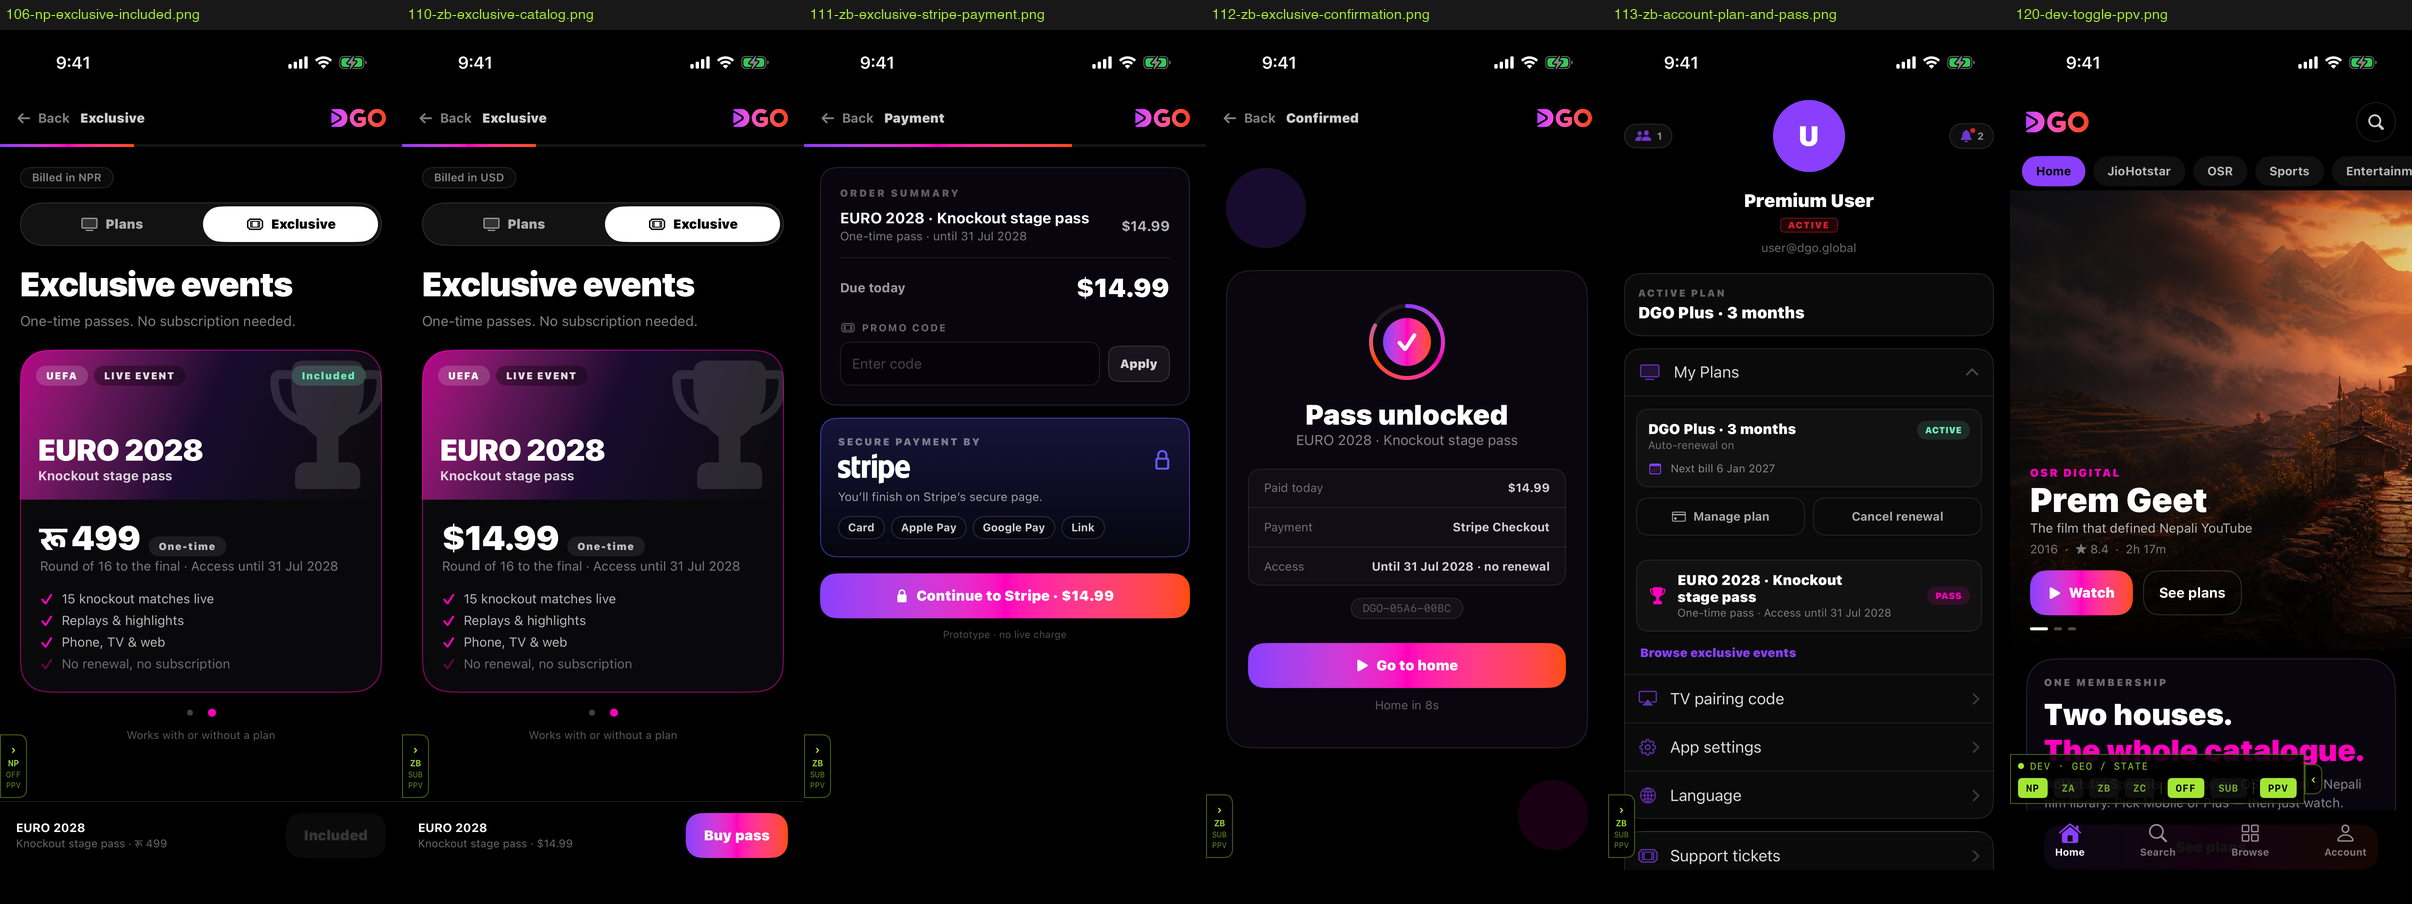
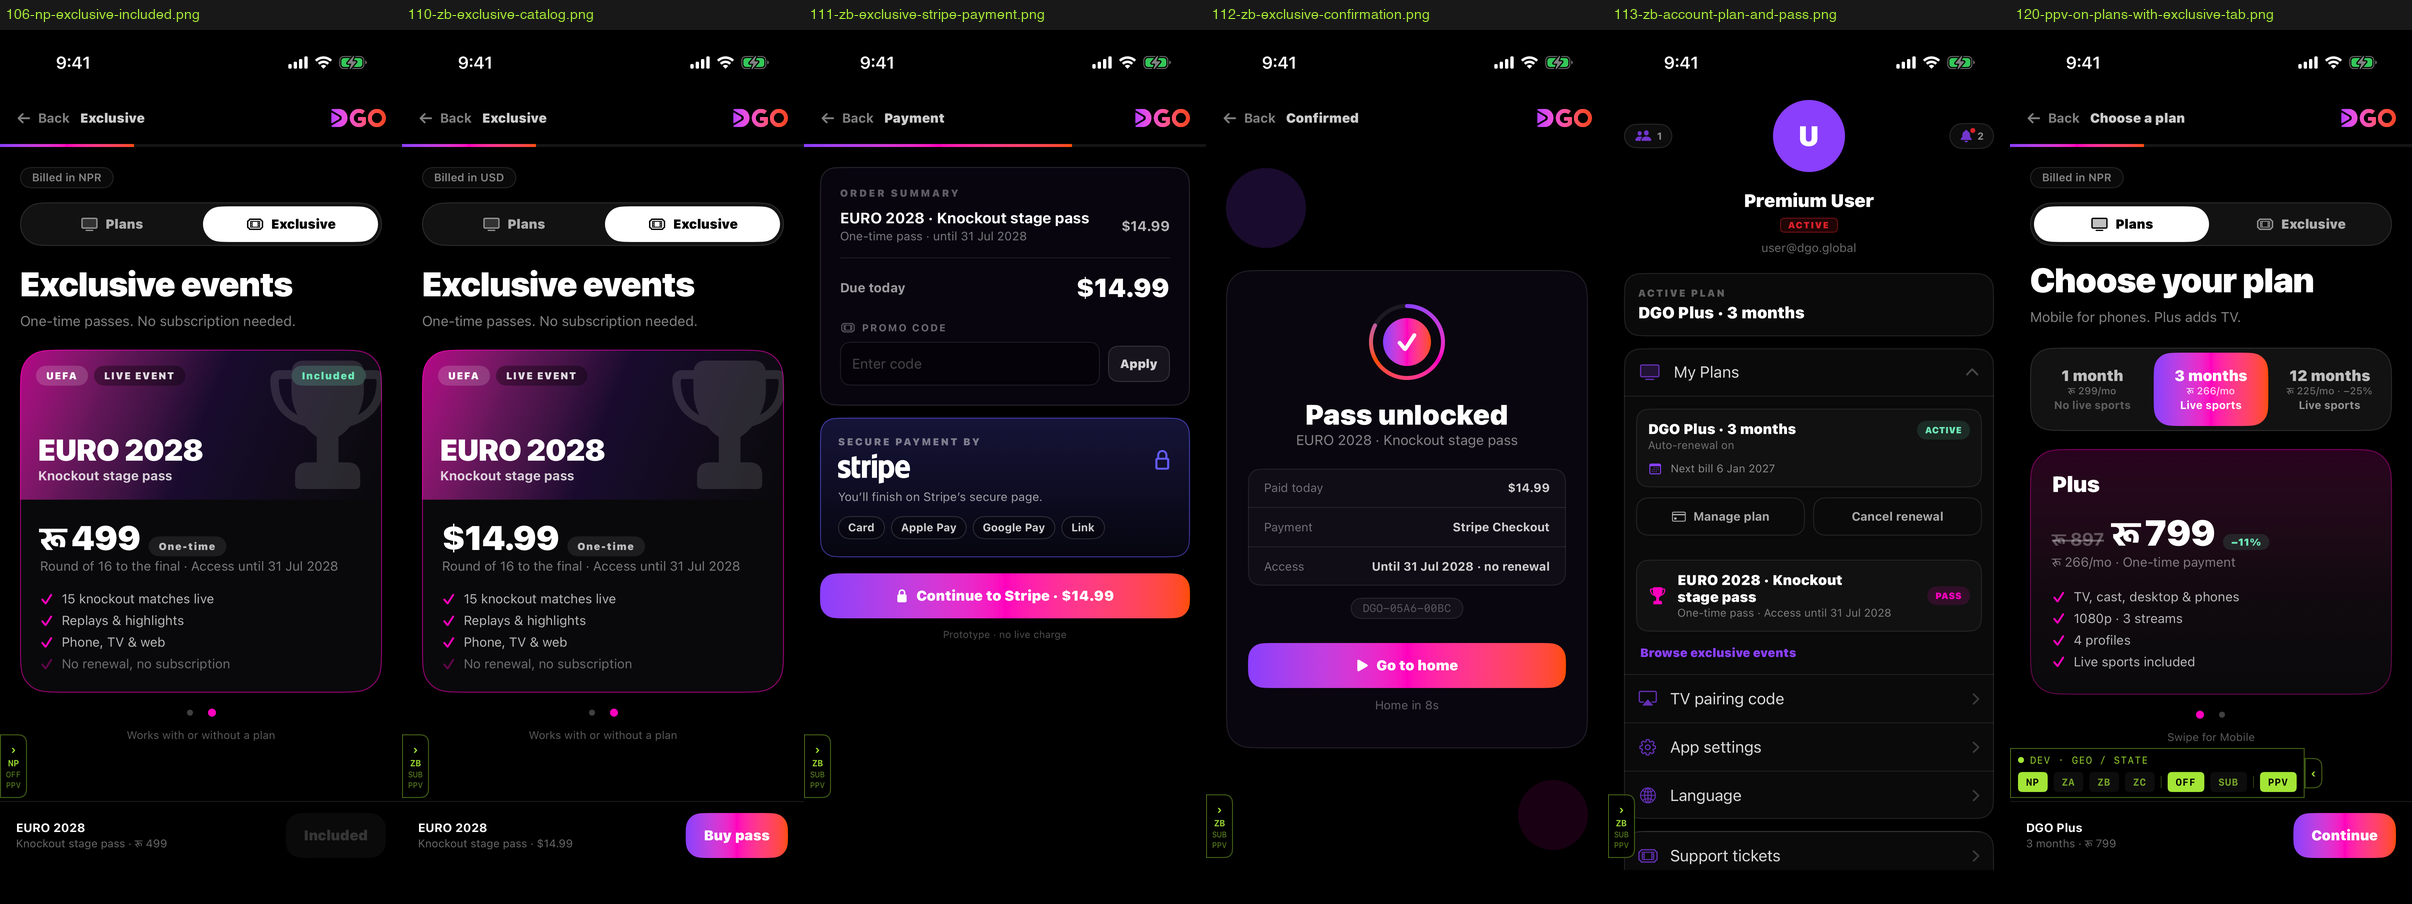
Capture PPV on and off states on the plan picker
The dev toggle UI test now opens the plan picker first, then snaps PPV
on with the Exclusive tab, PPV off with the panel open, and PPV off
with the panel collapsed. Replaces the two older PPV screenshots and
rebuilds the contact sheets.

Changed region(s): [[0.8085, 0.1239, 1.0, 0.9602], [0.8396, 0.0, 0.9328, 0.031], [0.9639, 0.1239, 0.995, 0.1549]]

diff --git a/DgoCheckoutUITests/CheckoutFlowUITests.swift b/DgoCheckoutUITests/CheckoutFlowUITests.swift
@@ -530,12 +530,15 @@ final class CheckoutFlowUITests: XCTestCase {
     }
 
     func test13_DevToggleTurnsExclusiveOff() {
-        tap("devHandle")
-        snap("120-dev-toggle-ppv")
-        tap("dev_PPV")
         openPlansFromHome()
-        XCTAssertFalse(button("catalogTab_Exclusive").exists)
-        snap("121-ppv-off-plans-only")
+        tap("devHandle")
+        XCTAssertTrue(button("catalogTab_Exclusive").exists)
+        snap("120-ppv-on-plans-with-exclusive-tab")
+        tap("dev_PPV")
+        XCTAssertTrue(button("catalogTab_Exclusive").waitForNonExistence(timeout: 3))
+        snap("121-ppv-off-panel-open")
+        tap("devHandle")
+        snap("122-ppv-off-plans-only")
         tap("headerBack")
         openAccount()
         XCTAssertFalse(button("browseExclusive").exists)
